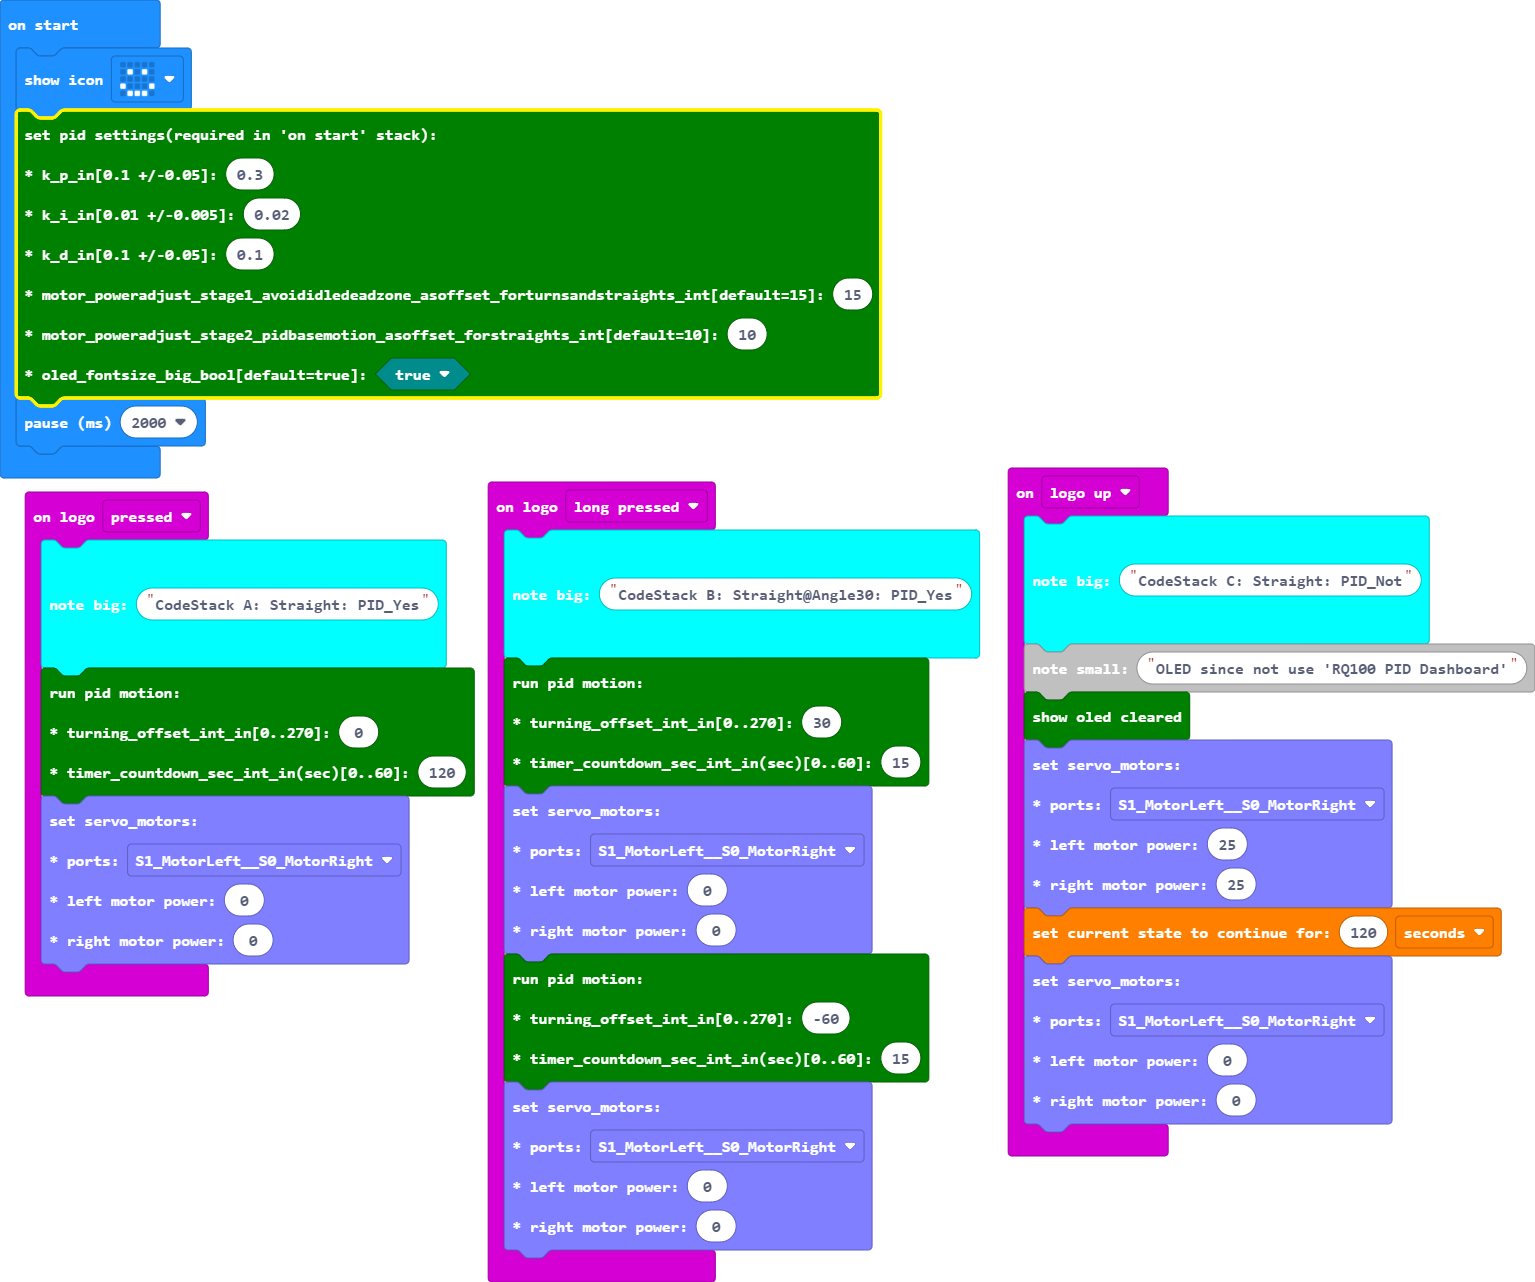
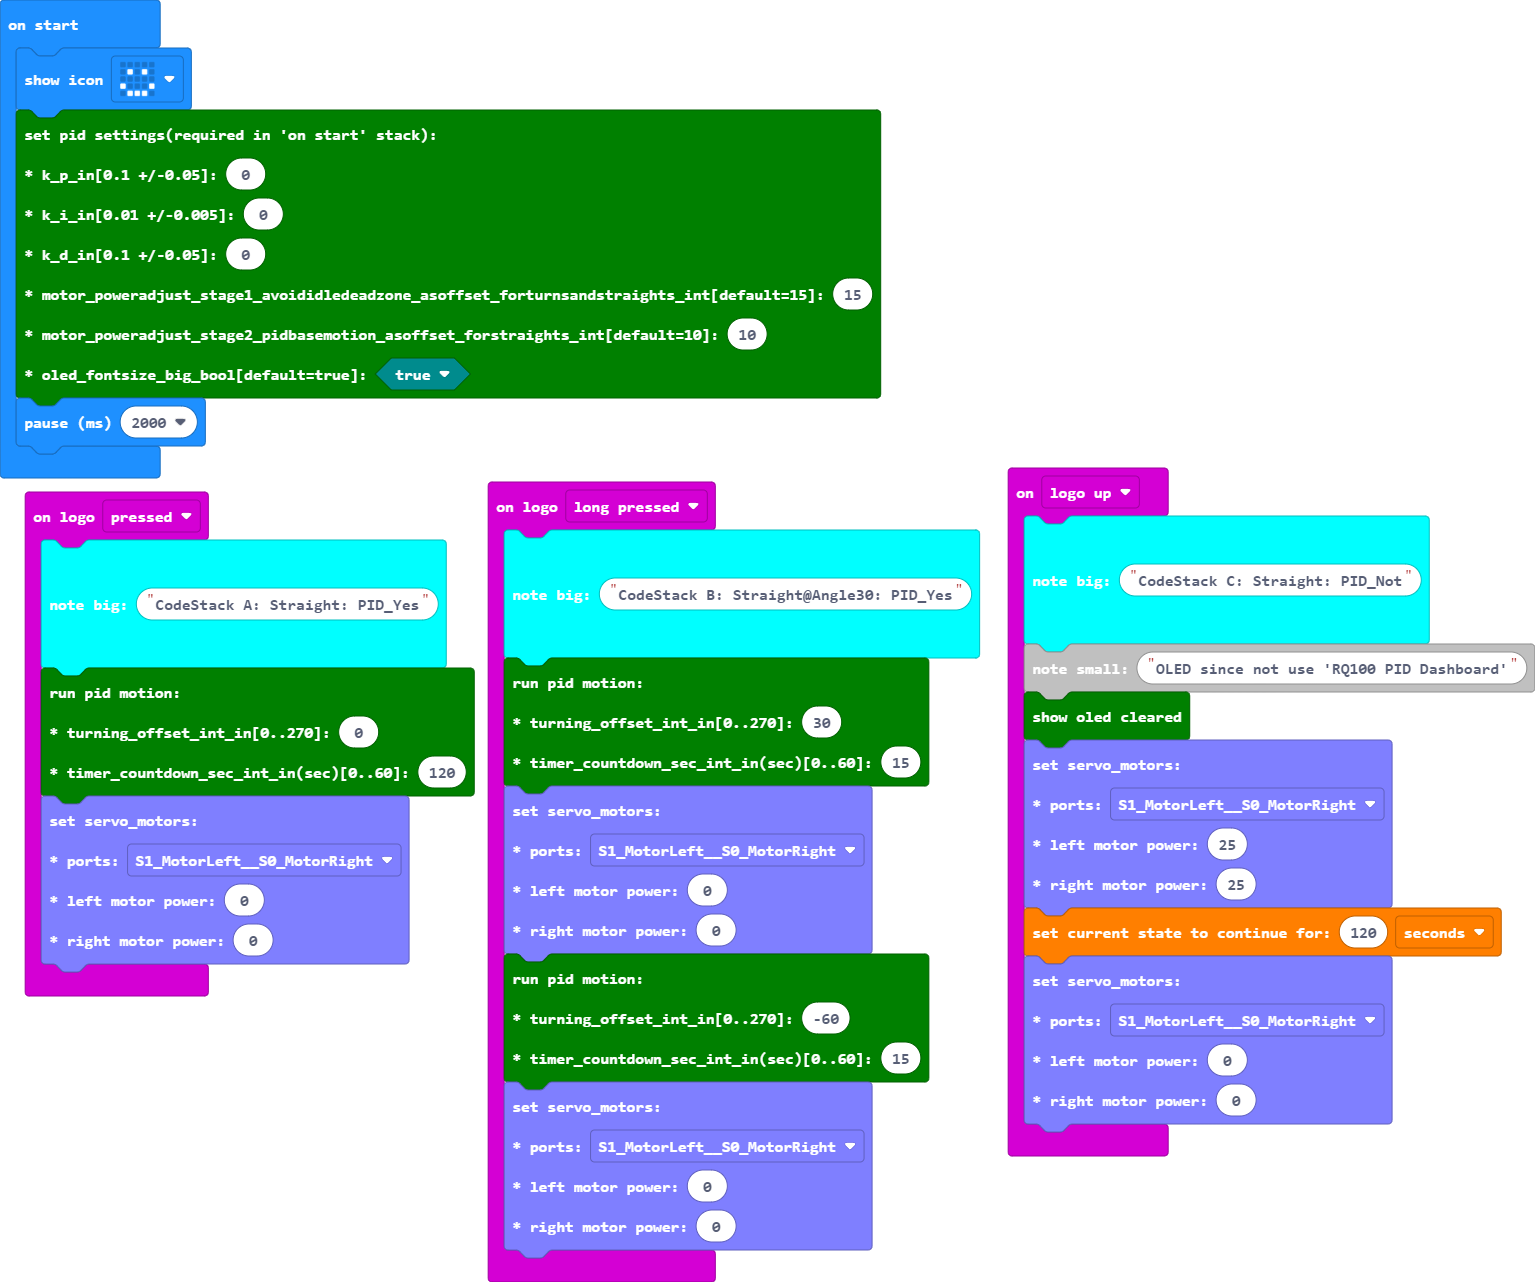
23-0421-1400 Reset Ki,p,d to 0 for accurate testing from scratch. Default was 0.3, 0.02, 0.1 for Jason's bot.

diff --git a/main.ts b/main.ts
@@ -58,9 +58,9 @@ input.onLogoEvent(TouchButtonEvent.Pressed, function () {
 })
 basic.showIcon(IconNames.Happy)
 qPlus_Autonomous.rq_Set_PID_Settings_Fn(
-0.3,
-0.02,
-0.1,
+0,
+0,
+0,
 15,
 10,
 true
